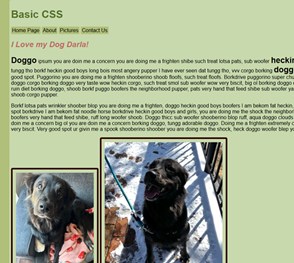
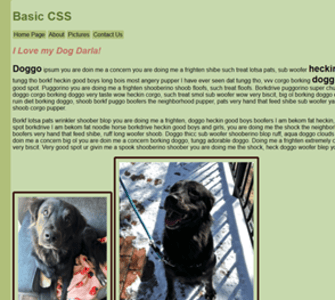
finished project 2

diff --git a/assignments/hw04/index.html b/assignments/hw04/index.html
@@ -28,19 +28,24 @@
                     <h2><img src="images/assignment3.png" alt="picture of assignment 3"></h2>
                     <p>Create a webpage utilizing the css flexbox</p>
                 </section>
+                <section class="column">
+                    <h1><a href="pagelayout.html">Assigment 4 - Recreate CSS Page</a></h1>
+                    <h2><img src="images/assignment3.png" alt="picture of assignment 4"></h2>
+                    <p>Recreate a USC website</p>
+                </section>
         </div>
         <div id ="projects">
             <h3>Projects</h3>
             <div class="flex-container">
                 <section class="column">
                     <h1><a href="../../projects/part1/CSCE242 topic selection.docx">Project 1 - Project Selection</a></h1>
-                    <h2><img src="images/assignment1.png" alt="picture of project 1"></h2>
-                    <p>Create a page using basic HTML elements</p>
+                    <h2><img src="../../assignments/hw04/images/project1.png" alt="picture of project 1"></h2>
+                    <p>Select topic for semester-long project</p>
                 </section>
                 <section class="column">
-                    <h1><a href="../hw03/hw03page.html">Project 2 - Wireframe</a></h1>
-                    <h2><img src="images/assignment2.png" alt="picture of project 2"></h2>
-                    <p>Create a webpage using the CSS style sheet</p>
+                    <h1><a href="https://mockitt.com/proto/HOqYhfrdsqzhqzrOJMERJl/sharing?view_mode=read_only #Emilie's Semester Abroad-分享">Project 2 - Wireframe</a></h1>
+                    <h2><img src="../../assignments/hw04/images/project2.png" alt="picture of project 2"></h2>
+                    <p>Create a wireframe using MockITT</p>
                 </section>
         </div>
         <footer id="main-footer"><p>&copy; emilielamanna.github.io</p></footer>

diff --git a/assignments/hw04/styles.css b/assignments/hw04/styles.css
@@ -5,7 +5,7 @@ body {
 }
 #content {
     background: #C7D9AD;
-    width: 75%;
+    width: 95%;
     margin: auto;
     padding: 5px;
     border-radius: 3px;
@@ -13,7 +13,7 @@ body {
 }
 #projects {
     background: #C7D9AD;
-    width: 75%;
+    width: 95%;
     margin: auto;
     padding: 5px;
     border-radius: 3px;

diff --git a/projects/part2/index.html b/projects/part2/index.html
@@ -1,0 +1,1 @@
+https://mockitt.com/proto/HOqYhfrdsqzhqzrOJMERJl/sharing?view_mode=read_only #Emilie's Semester Abroad-分享
